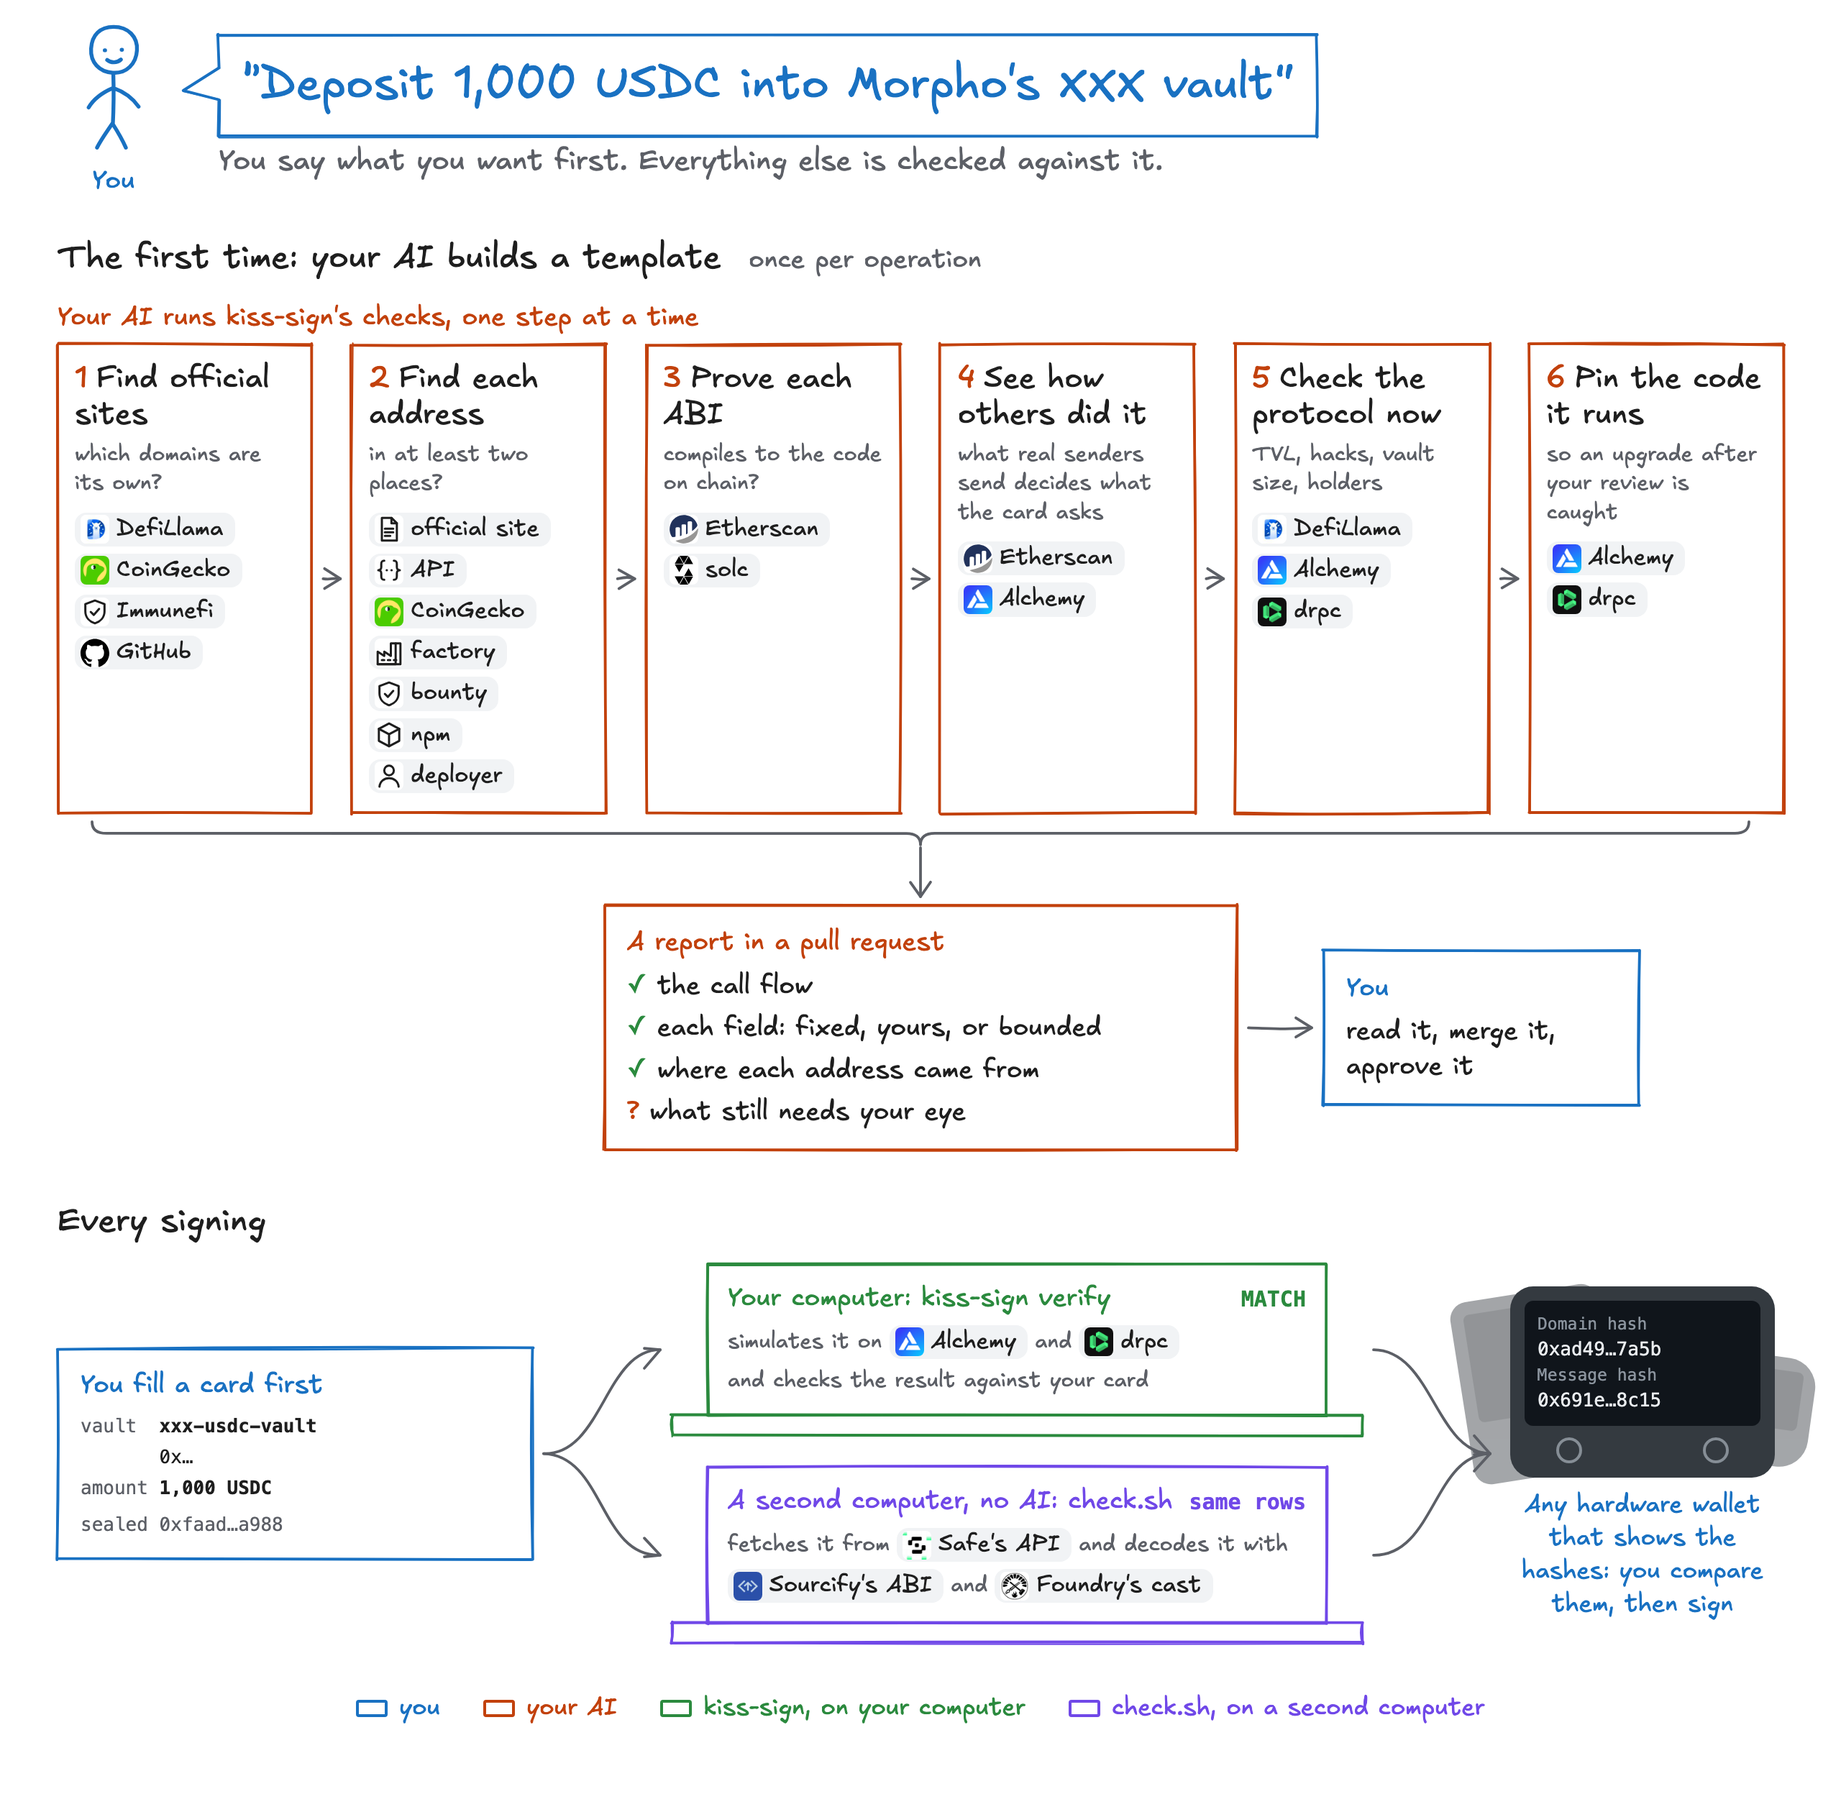
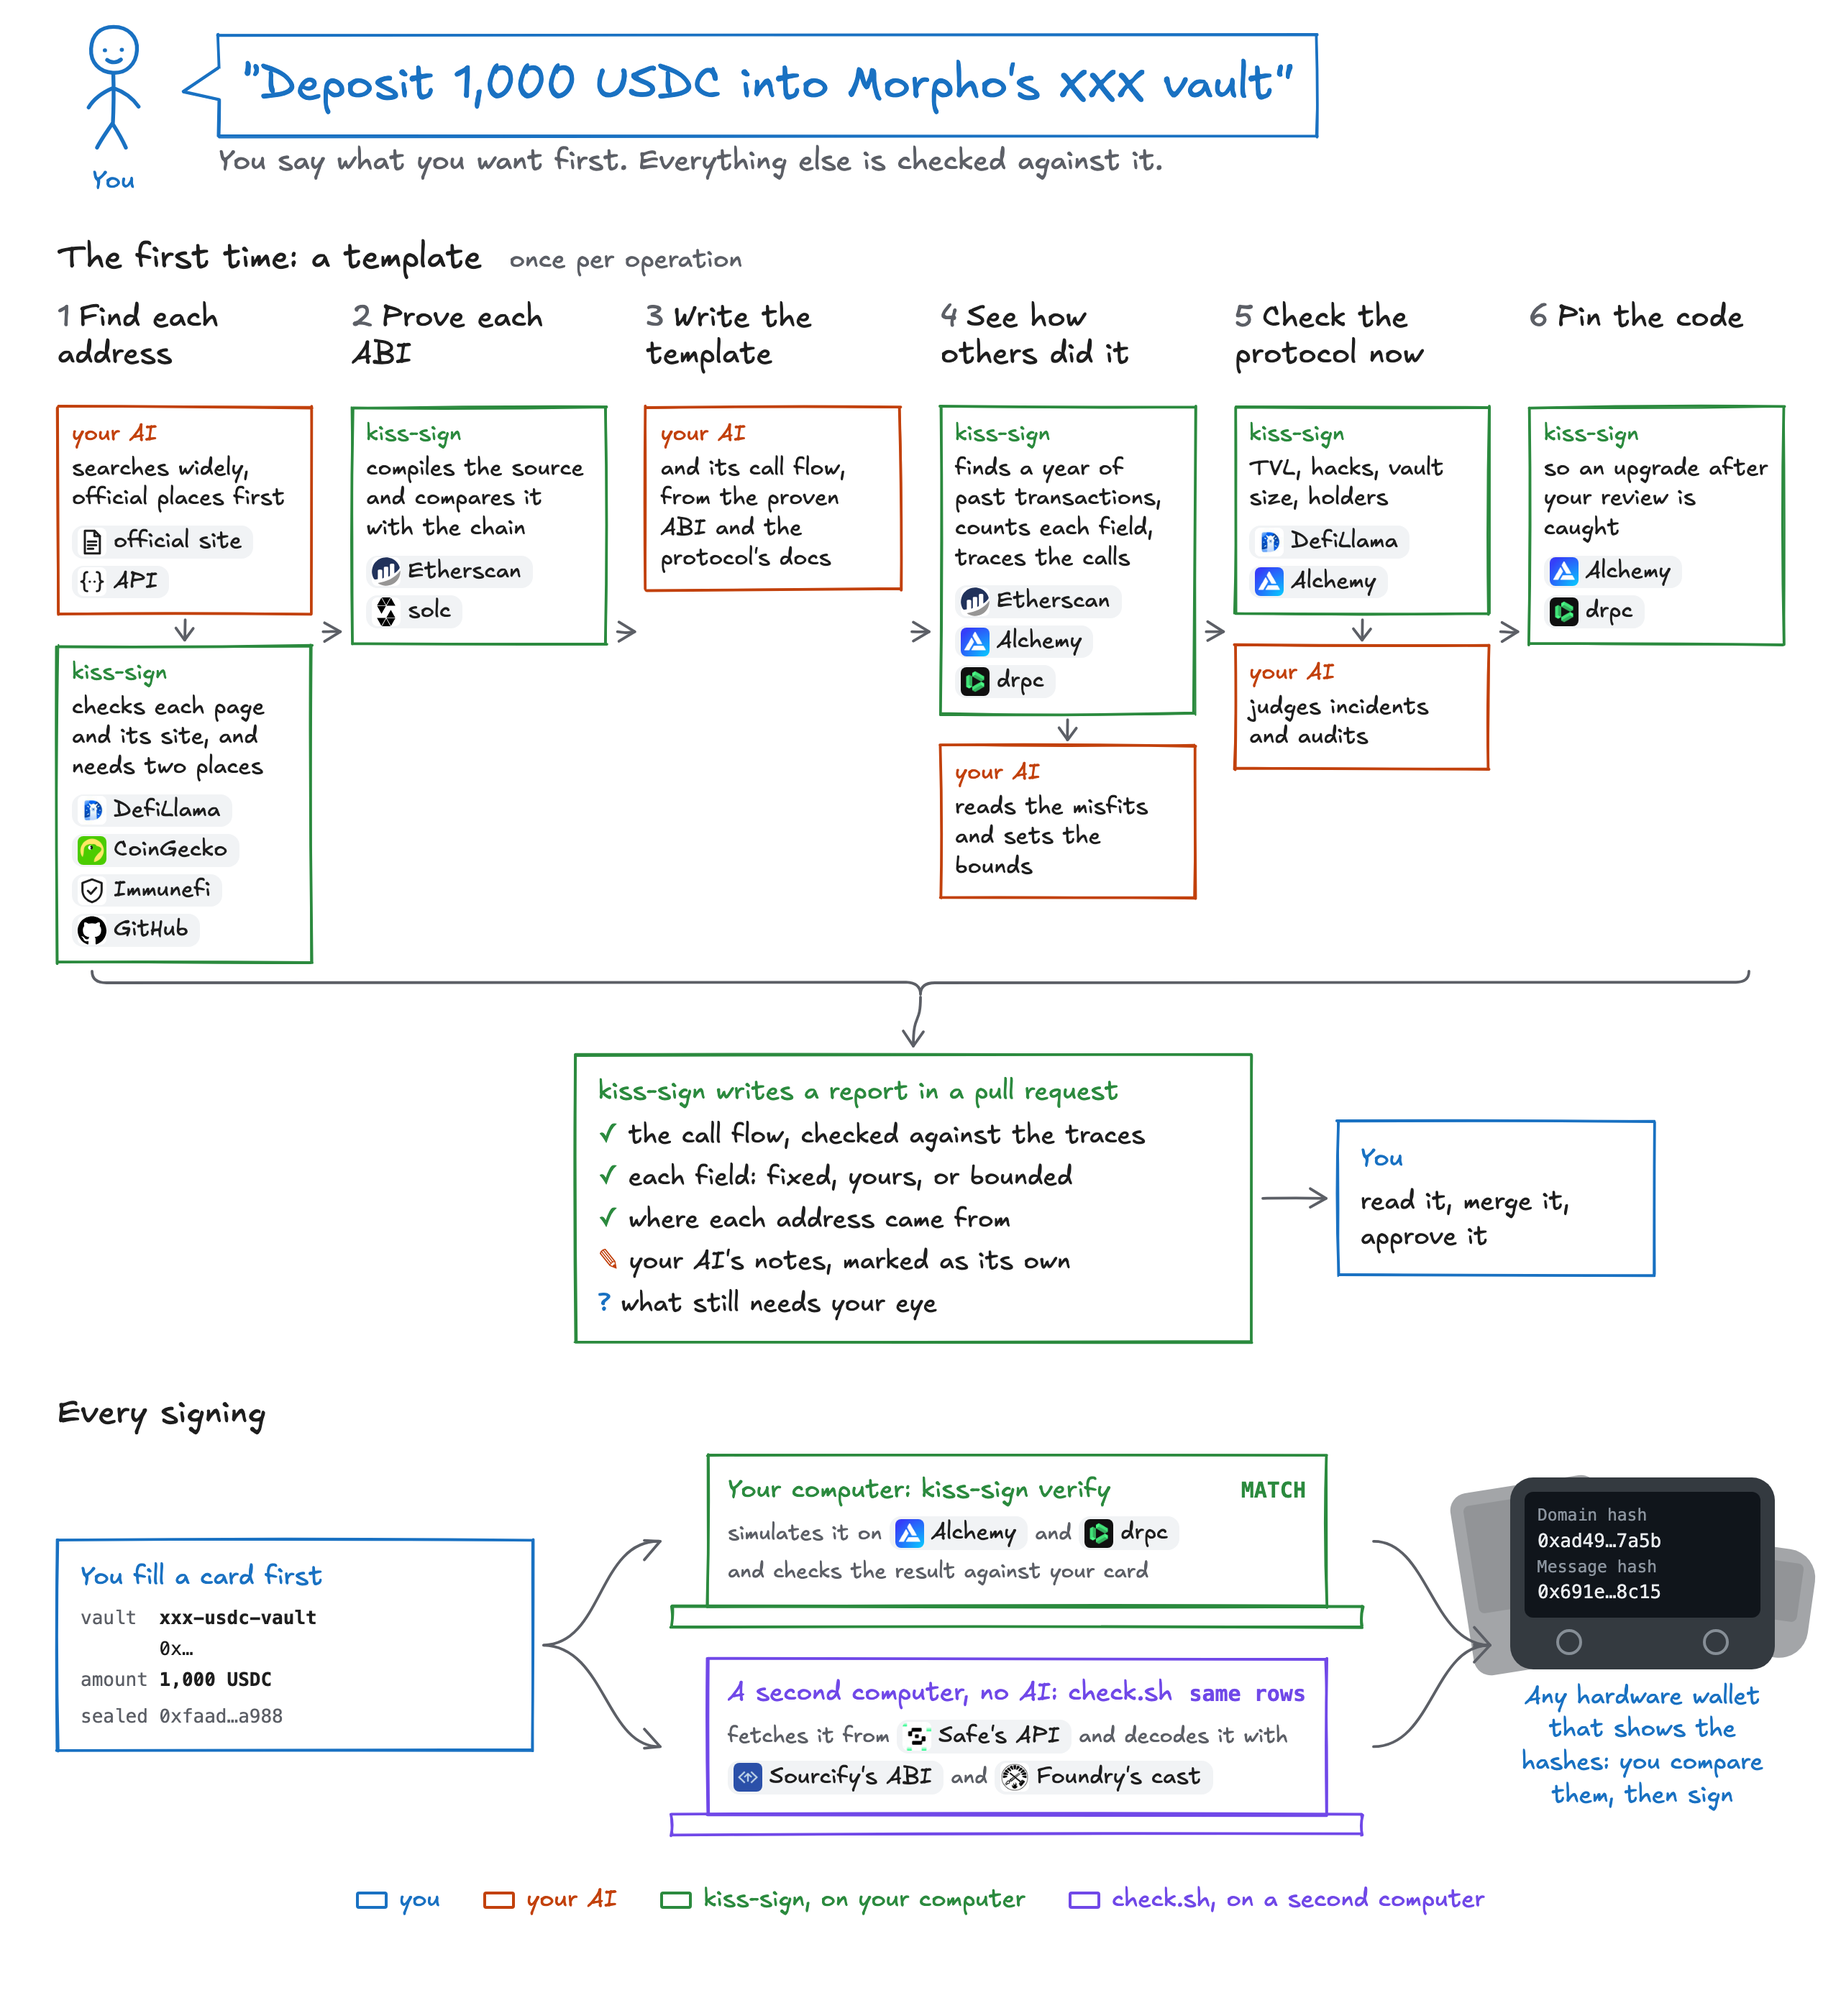
Redraw the README overview's first-time half by who does each step
The six first-time boxes were all orange, as if the AI did every step.
Most of them are fixed checks kiss-sign runs, so each step now shows an
orange part for the AI and a green part for kiss-sign, in the order of
the build: find each address, prove each ABI, write the template and
its call flow, study past transactions, check the protocol, pin the
code. kiss-sign writes the report, with the AI's notes marked.

Claude-Session: https://claude.ai/code/session_019EpkRikTD1KbjKp9L1wtSS

diff --git a/docs/diagrams/readme-overview.html b/docs/diagrams/readme-overview.html
@@ -49,17 +49,20 @@
   :root.dark .lg img.mono-logo { filter: invert(1); background: transparent; }
 
   .chain .steps { display: grid; grid-template-columns: repeat(6, minmax(0, 1fr)); gap: 28px; margin-top: 6px; }
-  .step { padding: 12px 12px 14px; display: grid; align-content: start; gap: 4px; }
-  .step .t { font-size: 21px; line-height: 1.2; }
-  .step .n { color: var(--ai); margin-right: 6px; }
-  .step .logos { display: flex; gap: 5px; flex-wrap: wrap; margin-top: 6px; }
-  .then { display: flex; align-items: center; gap: 60px; margin: 64px 0 0 0; padding-left: 380px; }
+  .step { display: flex; flex-direction: column; gap: 22px; }
+  .step .t { font-size: 21px; line-height: 1.2; min-height: 52px; }
+  .step .n { color: var(--muted); margin-right: 6px; }
+  .part { padding: 9px 10px 11px; font-size: 16px; line-height: 1.3; display: grid; gap: 3px; }
+  .part .who { font-size: 16px; margin-bottom: 0; }
+  .part .logos { display: flex; gap: 5px; flex-wrap: wrap; margin-top: 5px; }
+  .then { display: flex; align-items: center; gap: 60px; margin: 64px 0 0 0; padding-left: 360px; }
   .note { color: var(--muted); font-size: 15px; }
 
-  .report { width: 440px; }
+  .report { width: 470px; }
   .report ul { list-style: none; display: grid; grid-template-columns: 1fr; gap: 5px; font-size: 18px; }
   .report li::before { content: "✓ "; color: var(--prog); }
-  .report li.q::before { content: "? "; color: var(--ai); }
+  .report li.ai::before { content: "✎ "; color: var(--ai); }
+  .report li.q::before { content: "? "; color: var(--you); }
 
   .merge { width: 220px; font-size: 18px; }
 
@@ -111,22 +114,21 @@
     </div>
   </div>
 
-  <h2>The first time: your AI builds a template <b>once per operation</b></h2>
-  <div class="chain ai" id="chain">
-    <div class="who">Your AI runs kiss-sign's checks, one step at a time</div>
+  <h2>The first time: a template <b>once per operation</b></h2>
+  <div class="chain" id="chain">
     <div class="steps">
-      <div class="sk step" id="s1"><div class="t"><span class="n">1</span>Find official sites</div><div class="note">which domains are its own?</div><div class="logos"><span class="lg"><img src="logos/defillama.jpg" alt="">DefiLlama</span><span class="lg"><img src="logos/coingecko.png" alt="">CoinGecko</span><span class="lg"><img class="mono-logo" src="logos/bounty.svg" alt="">Immunefi</span><span class="lg"><img class="mono-logo" src="logos/github.svg" alt="">GitHub</span></div></div>
-      <div class="sk step" id="s2"><div class="t"><span class="n">2</span>Find each address</div><div class="note">in at least two places?</div><div class="logos"><span class="lg"><img class="mono-logo" src="logos/docs.svg" alt="">official site</span><span class="lg"><img class="mono-logo" src="logos/api.svg" alt="">API</span><span class="lg"><img src="logos/coingecko.png" alt="">CoinGecko</span><span class="lg"><img class="mono-logo" src="logos/factory.svg" alt="">factory</span><span class="lg"><img class="mono-logo" src="logos/bounty.svg" alt="">bounty</span><span class="lg"><img class="mono-logo" src="logos/package.svg" alt="">npm</span><span class="lg"><img class="mono-logo" src="logos/deployer.svg" alt="">deployer</span></div></div>
-      <div class="sk step" id="s3"><div class="t"><span class="n">3</span>Prove each ABI</div><div class="note">compiles to the code on chain?</div><div class="logos"><span class="lg"><img src="logos/etherscan.svg" alt="">Etherscan</span><span class="lg"><img class="mono-logo" src="logos/solidity.svg" alt="">solc</span></div></div>
-      <div class="sk step" id="s4"><div class="t"><span class="n">4</span>See how others did it</div><div class="note">what real senders send decides what the card asks</div><div class="logos"><span class="lg"><img src="logos/etherscan.svg" alt="">Etherscan</span><span class="lg"><img src="logos/alchemy.png" alt="">Alchemy</span></div></div>
-      <div class="sk step" id="s5"><div class="t"><span class="n">5</span>Check the protocol now</div><div class="note">TVL, hacks, vault size, holders</div><div class="logos"><span class="lg"><img src="logos/defillama.jpg" alt="">DefiLlama</span><span class="lg"><img src="logos/alchemy.png" alt="">Alchemy</span><span class="lg"><img src="logos/drpc.png" alt="">drpc</span></div></div>
-      <div class="sk step" id="s6"><div class="t"><span class="n">6</span>Pin the code it runs</div><div class="note">so an upgrade after your review is caught</div><div class="logos"><span class="lg"><img src="logos/alchemy.png" alt="">Alchemy</span><span class="lg"><img src="logos/drpc.png" alt="">drpc</span></div></div>
+      <div class="step" id="s1"><div class="t"><span class="n">1</span>Find each address</div><div class="sk part ai"><div class="who">your AI</div><div>searches widely, official places first</div><div class="logos"><span class="lg"><img class="mono-logo" src="logos/docs.svg" alt="">official site</span><span class="lg"><img class="mono-logo" src="logos/api.svg" alt="">API</span></div></div><div class="sk part prog"><div class="who">kiss-sign</div><div>checks each page and its site, and needs two places</div><div class="logos"><span class="lg"><img src="logos/defillama.jpg" alt="">DefiLlama</span><span class="lg"><img src="logos/coingecko.png" alt="">CoinGecko</span><span class="lg"><img class="mono-logo" src="logos/bounty.svg" alt="">Immunefi</span><span class="lg"><img class="mono-logo" src="logos/github.svg" alt="">GitHub</span></div></div></div>
+      <div class="step" id="s2"><div class="t"><span class="n">2</span>Prove each ABI</div><div class="sk part prog"><div class="who">kiss-sign</div><div>compiles the source and compares it with the chain</div><div class="logos"><span class="lg"><img src="logos/etherscan.svg" alt="">Etherscan</span><span class="lg"><img class="mono-logo" src="logos/solidity.svg" alt="">solc</span></div></div></div>
+      <div class="step" id="s3"><div class="t"><span class="n">3</span>Write the template</div><div class="sk part ai"><div class="who">your AI</div><div>and its call flow, from the proven ABI and the protocol's docs</div></div></div>
+      <div class="step" id="s4"><div class="t"><span class="n">4</span>See how others did it</div><div class="sk part prog"><div class="who">kiss-sign</div><div>finds a year of past transactions, counts each field, traces the calls</div><div class="logos"><span class="lg"><img src="logos/etherscan.svg" alt="">Etherscan</span><span class="lg"><img src="logos/alchemy.png" alt="">Alchemy</span><span class="lg"><img src="logos/drpc.png" alt="">drpc</span></div></div><div class="sk part ai"><div class="who">your AI</div><div>reads the misfits and sets the bounds</div></div></div>
+      <div class="step" id="s5"><div class="t"><span class="n">5</span>Check the protocol now</div><div class="sk part prog"><div class="who">kiss-sign</div><div>TVL, hacks, vault size, holders</div><div class="logos"><span class="lg"><img src="logos/defillama.jpg" alt="">DefiLlama</span><span class="lg"><img src="logos/alchemy.png" alt="">Alchemy</span></div></div><div class="sk part ai"><div class="who">your AI</div><div>judges incidents and audits</div></div></div>
+      <div class="step" id="s6"><div class="t"><span class="n">6</span>Pin the code</div><div class="sk part prog"><div class="who">kiss-sign</div><div>so an upgrade after your review is caught</div><div class="logos"><span class="lg"><img src="logos/alchemy.png" alt="">Alchemy</span><span class="lg"><img src="logos/drpc.png" alt="">drpc</span></div></div></div>
     </div>
   </div>
   <div class="then">
-    <div class="sk ai report" id="report">
-      <div class="who">A report in a pull request</div>
-      <ul><li>the call flow</li><li>each field: fixed, yours, or bounded</li><li>where each address came from</li><li class="q">what still needs your eye</li></ul>
+    <div class="sk prog report" id="report">
+      <div class="who">kiss-sign writes a report in a pull request</div>
+      <ul><li>the call flow, checked against the traces</li><li>each field: fixed, yours, or bounded</li><li>where each address came from</li><li class="ai">your AI's notes, marked as its own</li><li class="q">what still needs your eye</li></ul>
     </div>
     <div class="sk you merge" id="merge">
       <div class="who">You</div>
@@ -201,6 +203,15 @@ Promise.all([document.fonts.ready, new Promise((ok) => (document.readyState === 
     const dy = (y2 - y1) * 0.08, s = 11;
     draw(`M${x2 - s} ${y2 - s * 0.6 - dy + rnd()} L${x2} ${y2} L${x2 - s} ${y2 + s * 0.6 - dy + rnd()}`, ink, 1.9);
   };
+  document.querySelectorAll('.step').forEach((st) => {
+    const ps = [...st.querySelectorAll('.part')];
+    for (let i = 1; i < ps.length; i++) {
+      const a = ps[i - 1].getBoundingClientRect(), b = ps[i].getBoundingClientRect();
+      const x = a.left + a.width / 2 + scrollX, y1 = a.bottom + 4 + scrollY, y2 = b.top - 4 + scrollY;
+      draw(`M${x + rnd()} ${y1} L${x + rnd()} ${y2}`, ink, 1.9);
+      draw(`M${x - 6} ${y2 - 8 + rnd()} L${x} ${y2} L${x + 6} ${y2 - 8 + rnd()}`, ink, 1.9);
+    }
+  });
   [['s1', 's2'], ['s2', 's3'], ['s3', 's4'], ['s4', 's5'], ['s5', 's6'], ['report', 'merge']].forEach(([a, b]) => arrow(a, b));
   {
     const steps = document.querySelector('.steps').getBoundingClientRect(), rb = document.getElementById('report').getBoundingClientRect();

diff --git a/README.md b/README.md
@@ -16,7 +16,7 @@ Signing tools today show you a transaction and ask whether it looks right. Your 
 
 <picture>
   <source media="(prefers-color-scheme: dark)" srcset="docs/readme/overview-dark.png">
-  <img src="docs/readme/overview.png" alt="kiss-sign at a glance. You say what you want. Once per operation, your AI checks each address against the protocol's own sites and finds it in at least two places, checks the ABIs, past transactions, the protocol's state and the code, and writes a report you review and merge. At every signing you fill a card; kiss-sign verify simulates the transaction on two providers and checks it against the card; a second computer decodes it on its own with check.sh; and you compare the hashes on your hardware wallet before signing.">
+  <img src="docs/readme/overview.png" alt="kiss-sign at a glance. You say what you want. Once per operation, your AI finds each address and kiss-sign confirms it in at least two places; kiss-sign proves each ABI; your AI writes the template and its call flow; kiss-sign studies a year of past transactions and your AI sets the bounds; kiss-sign reads the protocol's state, which your AI judges, and pins the code; kiss-sign writes a report, with your AI's notes marked, that you review and merge. At every signing you fill a card; kiss-sign verify simulates the transaction on two providers and checks it against the card; a second computer decodes it on its own with check.sh; and you compare the hashes on your hardware wallet before signing.">
 </picture>
 
 ## Contents
